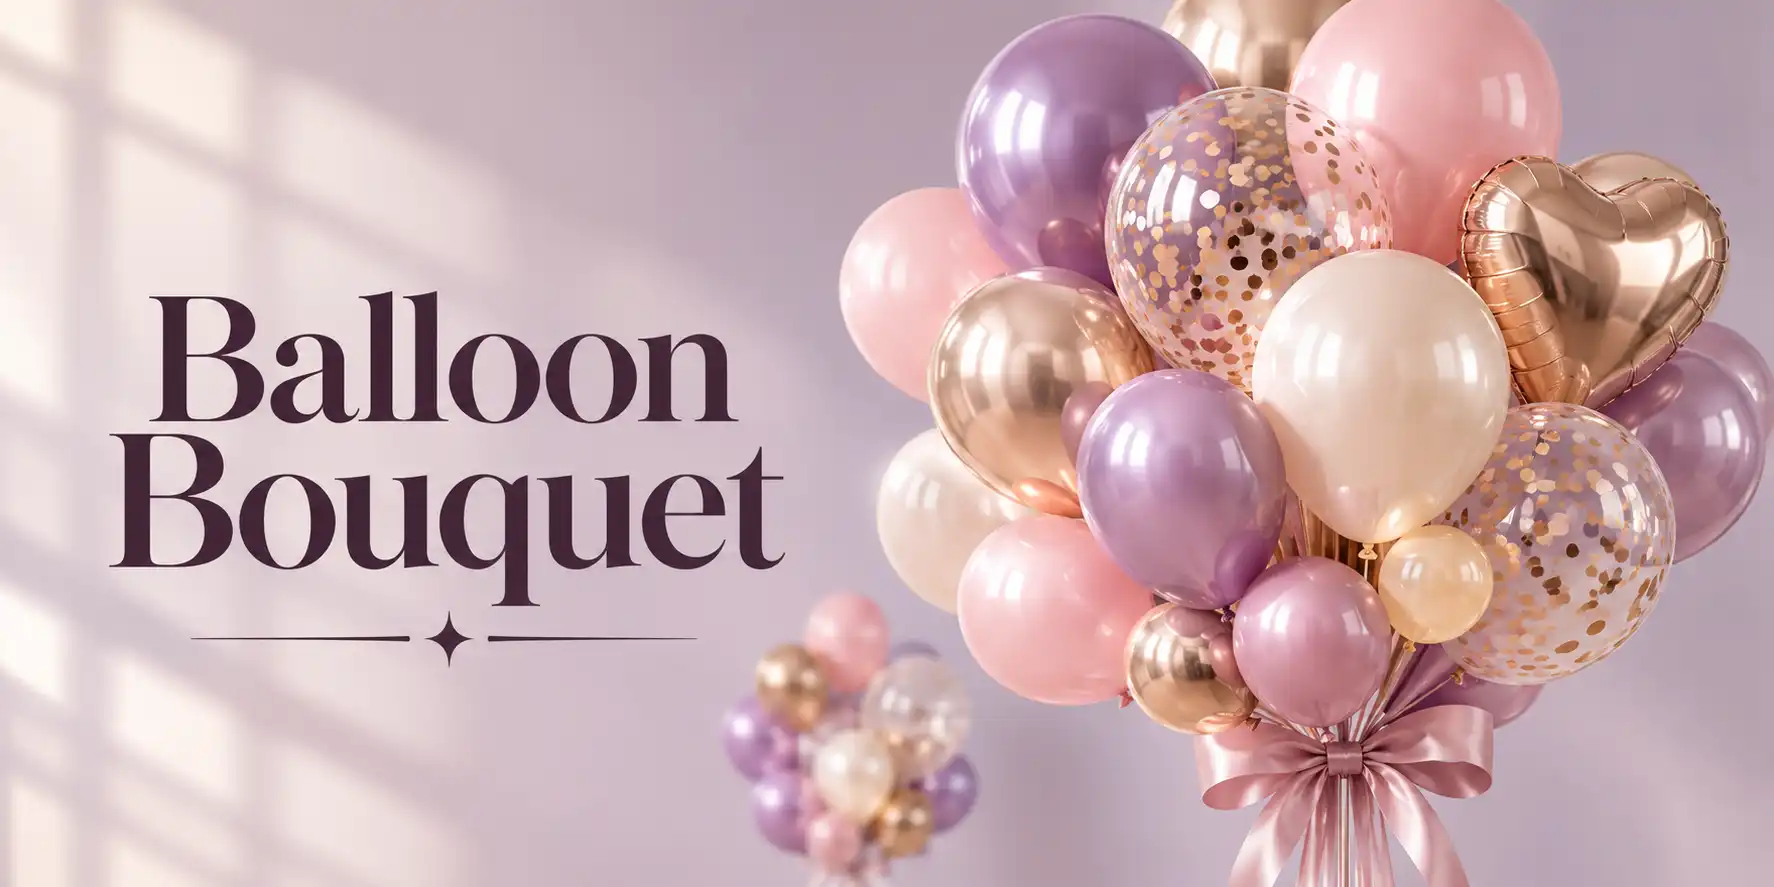
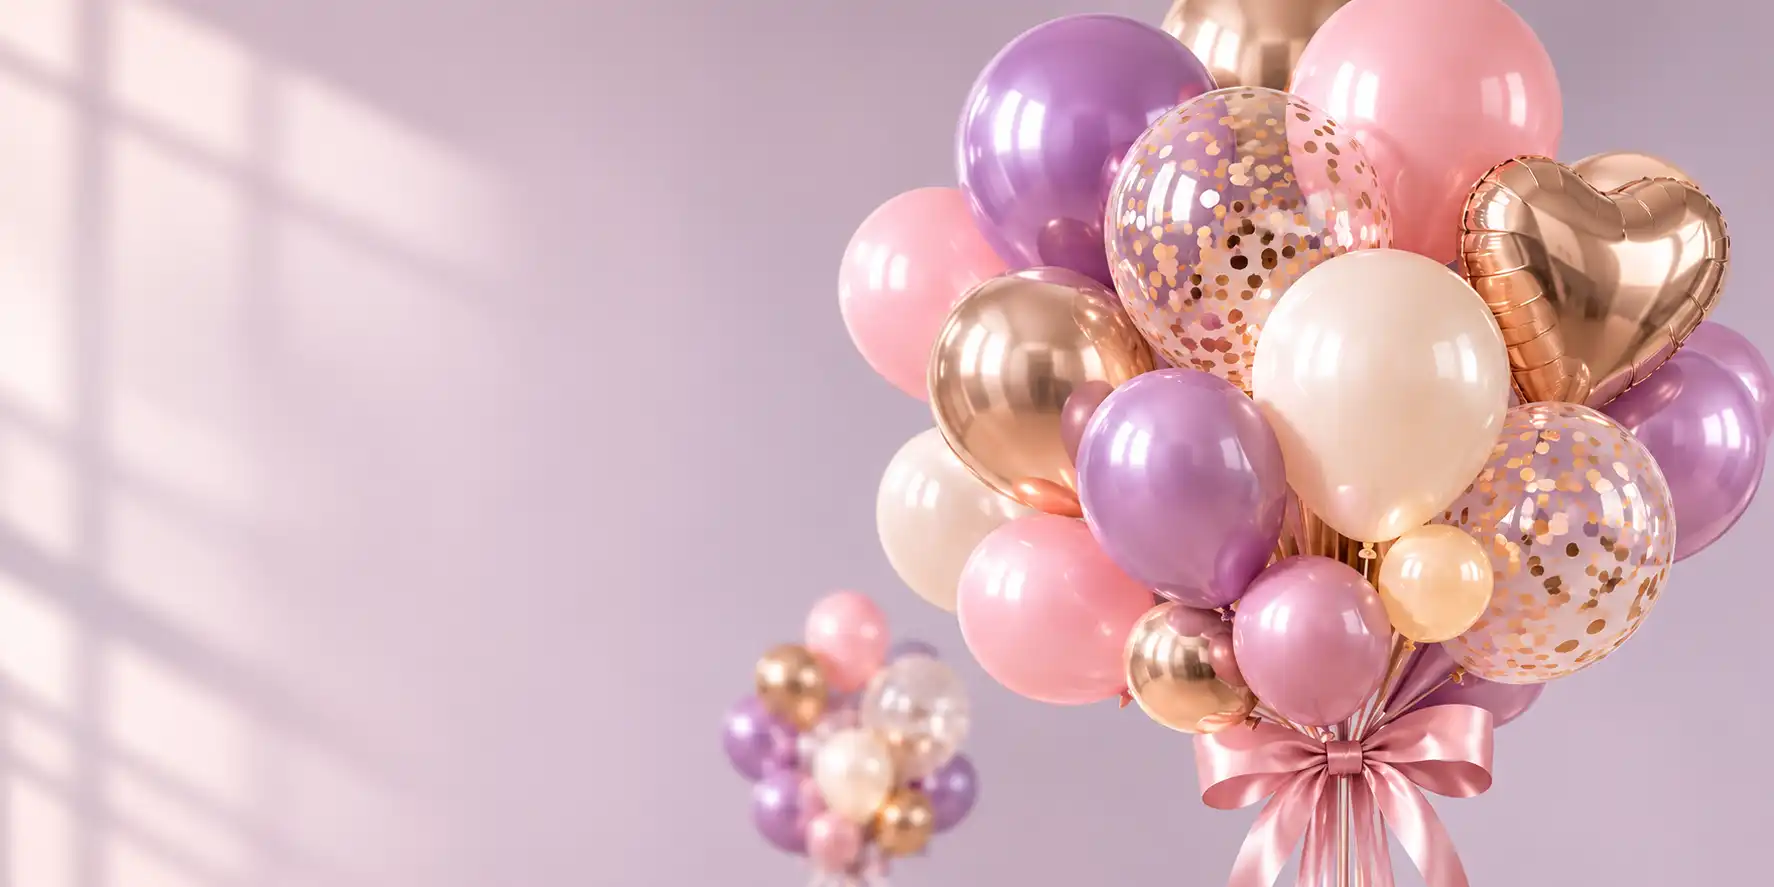
feat(collections): update collection images, restore category titles, and show explore button on hover

diff --git a/app/page.tsx b/app/page.tsx
@@ -357,15 +357,15 @@ export default function Home() {
                   <Image
                     src={
                       {
-                        'fresh-flower': '/images/collections/Fresh Flower Bouquet Advertisement_converted.webp',
-                        'chocolate-bouquet': '/images/collections/Luxurious Chocolate Gift Bouquet_converted.webp',
-                        'teddy-and-bouquet': '/images/collections/Teddy and Rose Bouquet Gift Scene_converted.webp',
-                        'personalized': '/images/collections/Personalised Gifts in Lavender Elegance_converted.webp',
-                        'hamper': '/images/collections/Elegant Sage Hamper Gift Set_converted.webp',
-                        'plants': '/images/collections/Elegant Indoor Plant Collection_converted.webp',
-                        'cake': '/images/collections/Elegant Pastel Buttercream Cake Display_converted.webp',
+                        'fresh-flower': '/images/collections/Pastel Garden Bouquet in Ceramic Vase_converted.webp',
+                        'chocolate-bouquet': '/images/collections/Luxurious Chocolate Bouquet Still Life_converted.webp',
+                        'teddy-and-bouquet': '/images/collections/Romantic Teddy Bear and Rose Bouquet_converted.webp',
+                        'personalized': '/images/collections/Lavender Gifts and Misty Mountains_converted.webp',
+                        'hamper': '/images/collections/Elegant Sage Green Luxury Gift Hamper_converted.webp',
+                        'plants': '/images/collections/Sunlit Indoor Botanical Collection_converted.webp',
+                        'cake': '/images/collections/Elegant Blush Floral Cake Display_converted.webp',
                         'balloon-bouquet': '/images/collections/Elegant Pastel Balloon Bouquet_converted.webp',
-                        'decorations': '/images/collections/Elegant Blush and Gold Celebration Decor_converted.webp',
+                        'decorations': '/images/collections/Elegant Blush and Gold Dessert Table_converted.webp',
                       }[cat.slug] || cat.image_url
                     }
                     alt={cat.name}
@@ -373,10 +373,11 @@ export default function Home() {
                     className="object-cover transition-transform duration-700 ease-out group-hover:scale-105"
                     sizes="(max-width: 768px) 50vw, 25vw"
                   />
-                  <div className="absolute inset-0 bg-gradient-to-t from-black/40 via-transparent to-transparent group-hover:from-black/50 transition-all duration-500" />
-                  <div className="absolute bottom-0 left-0 p-3 sm:p-4 md:p-6">
-                    <span className="inline-flex items-center gap-1.5 px-3 py-1.5 rounded-full bg-black/40 backdrop-blur-xs text-white text-[10px] md:text-xs font-semibold uppercase tracking-wider border border-white/20 shadow-xs group-hover:bg-black/60 transition-all duration-300">
-                      Explore <ArrowRight size={12} className="transition-transform duration-300 group-hover:translate-x-1" />
+                  <div className="absolute inset-0 bg-gradient-to-t from-black/55 via-black/10 to-transparent group-hover:from-black/45 transition-all duration-500" />
+                  <div className="absolute bottom-0 left-0 p-4 md:p-6">
+                    <h3 className="font-serif text-base md:text-xl text-white mb-1">{cat.name}</h3>
+                    <span className="inline-flex items-center gap-1 text-white/80 text-[10px] md:text-xs uppercase tracking-widest opacity-0 group-hover:opacity-100 translate-y-2 group-hover:translate-y-0 transition-all duration-300">
+                      Explore <ArrowRight size={12} />
                     </span>
                   </div>
                 </Link>
